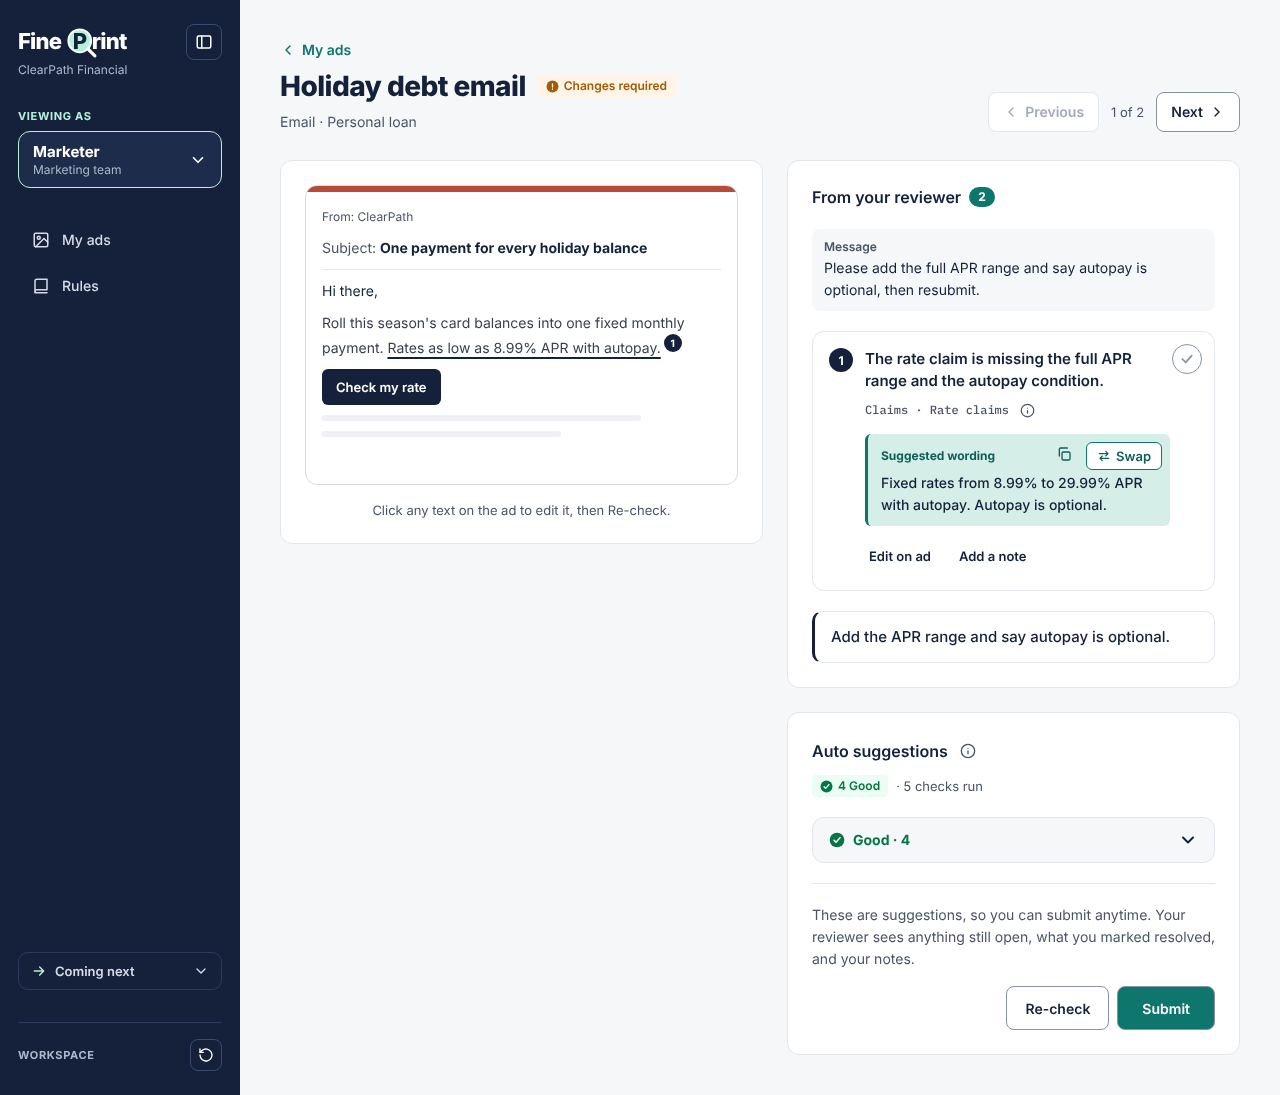
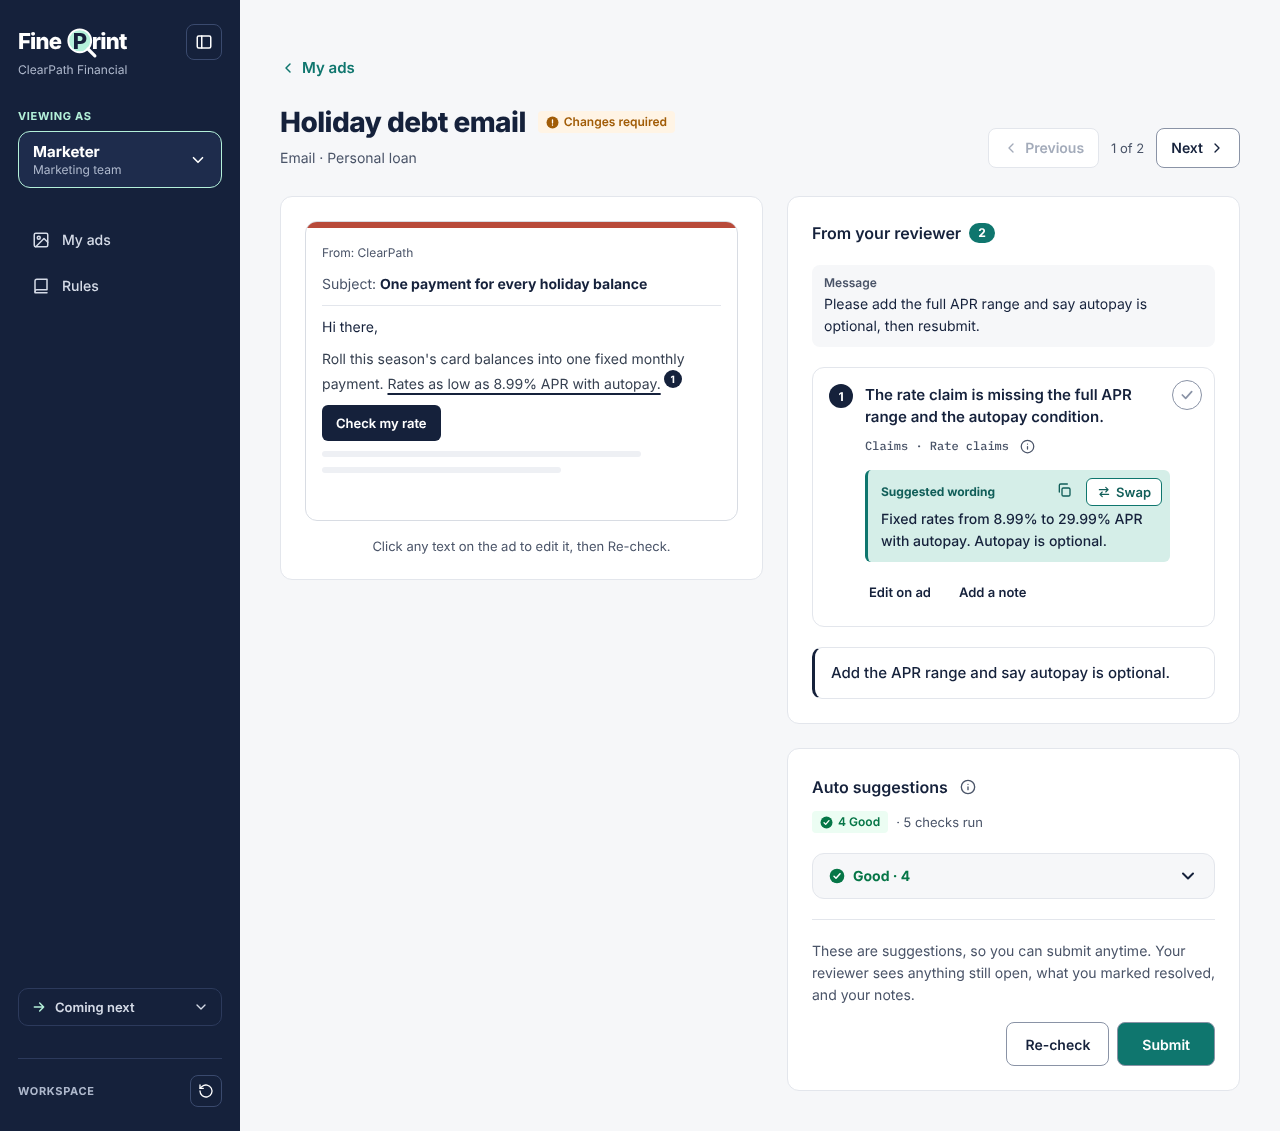
Turso through a local copy on Vercel, Pre-check in the README, no sub-lines, Thinking state on Re-check
- On Vercel with DATABASE_URL set, each function copy reads a local copy of Turso, synced at most
  once a second; writes go to Turso, so every copy shows the same numbers. Falls back to a local
  SQLite file if Turso can't be reached. The lock is released while a live check waits on the model.
- My ads has no sub-lines under the ad name.
- Re-check shows 'Thinking…' above the loading skeleton.
- README: a Pre-check section and Turso deploy steps.

Claude-Session: https://claude.ai/code/session_01GajTyz92bBm6dN9cgoMqN2

diff --git a/src/components/AdTable.tsx b/src/components/AdTable.tsx
@@ -7,8 +7,8 @@ import { useWorkspace } from '../app/workspace'
 import { query } from '../lib/api'
 import { isUpdated } from '../lib/seen'
 import { useApi } from '../lib/useApi'
-import { dayLabel, daysBetween, shortDate, workspaceDate } from '../lib/dates'
-import { PRODUCT_LABEL, STATUS_LABEL, plural, sourceLabel } from '../lib/labels'
+import { dayLabel, daysBetween, shortDate } from '../lib/dates'
+import { PRODUCT_LABEL, STATUS_LABEL, sourceLabel } from '../lib/labels'
 import type { AdList, AdRow, AdStatus, Stat } from '../lib/types'
 import { Icon } from './Icon'
 import { StatCards, type StatAction } from './StatCards'
@@ -53,25 +53,6 @@ export interface Filters {
 }
 
 export const NO_FILTERS: Filters = { format: [], product: [], status: [], due: [] }
-
-/** A line under the name only when it adds something the Status and date columns don't. */
-function myAdsSubLine(row: AdRow, today: string): string | null {
-  switch (row.status) {
-    case 'draft': {
-      const parts = [row.critical && `${row.critical} Critical`, row.caution && `${row.caution} Caution`].filter(Boolean)
-      return parts.length ? `Pre-check: ${parts.join(', ')}` : 'Pre-check: good standing'
-    }
-    case 'changes_required':
-    case 'pending':
-      return null
-    case 'approved_with_changes':
-      return `${plural(row.sent, 'small edit')}, no second review`
-    case 'approved':
-      return row.live_since ? `Live since ${shortDate(workspaceDate(row.live_since), today)}` : 'Ready to go live'
-    case 'rejected':
-      return row.decision_message ?? 'Rejected'
-  }
-}
 
 /** A due date: Today, Tomorrow, or a day; a past one is in the "needs action" color, not alarm red. */
 function DueDate({ day, today }: { day: string; today: string }) {
@@ -366,9 +347,9 @@ export function AdTable({
                 </span>
               )}
             </span>
-            {(view === 'my-ads' ? myAdsSubLine(row, today) : sourceLabel(row.source)) && (
+            {sourceLabel(row.source) && (
               <span style={{ fontSize: 13, lineHeight: '18px', color: '#4A5468' }}>
-                {view === 'my-ads' ? myAdsSubLine(row, today) : sourceLabel(row.source)}
+                {sourceLabel(row.source)}
               </span>
             )}
           </span>

diff --git a/src/pages/PreCheckPage.tsx b/src/pages/PreCheckPage.tsx
@@ -1,4 +1,4 @@
-import { Alert, App as AntApp, Button, Input, Skeleton, Tooltip } from 'antd'
+import { Alert, App as AntApp, Button, Input, Skeleton, Spin, Tooltip } from 'antd'
 import { useEffect, useMemo, useRef, useState, type ReactNode } from 'react'
 import { Link, useNavigate, useParams } from 'react-router-dom'
 import { AdView, isImageTemplate } from '../ads/AdView'
@@ -589,7 +589,13 @@ function PreCheckScreen({ detail, reload }: { detail: AdDetail; reload: () => vo
             </div>
             {unavailable && <Alert type="warning" showIcon message={UNAVAILABLE} />}
             {checking ? (
-              <Skeleton active paragraph={{ rows: 6 }} />
+              <div role="status" style={{ display: 'flex', flexDirection: 'column', gap: 12 }}>
+                <span style={{ display: 'inline-flex', alignItems: 'center', gap: 8, fontSize: 14, lineHeight: '20px', fontWeight: 600, color: '#115E59' }}>
+                  <Spin size="small" />
+                  Thinking… this can take up to 30 seconds.
+                </span>
+                <Skeleton active paragraph={{ rows: 6 }} />
+              </div>
             ) : (
               <>
                 {critical.length > 0 && (
@@ -625,7 +631,7 @@ function PreCheckScreen({ detail, reload }: { detail: AdDetail; reload: () => vo
                 </p>
                 <div style={{ display: 'flex', flexWrap: 'wrap', justifyContent: 'flex-end', gap: 8 }}>
                   <Button className="fp-footer-button" onClick={recheck} loading={checking} disabled={submitting}>
-                    {checking ? 'Checking…' : 'Re-check'}
+                    {checking ? 'Thinking…' : 'Re-check'}
                   </Button>
                   <Button type="primary" className="fp-footer-button fp-footer-primary" onClick={submit} loading={submitting} disabled={checking}>
                     Submit

diff --git a/e2e/tables.spec.ts b/e2e/tables.spec.ts
@@ -31,7 +31,8 @@ test('my ads: stats agree with the rows', async ({ page }) => {
   await expect(stat(page, 'in_review')).toHaveText('3')
   await expect(page.locator('.fp-ad-link')).toHaveCount(8)
   await expect(page.getByRole('link', { name: /^Pre-check / })).toHaveCount(2)
-  await expect(page.getByText('Pre-check: 1 Critical, 1 Caution')).toBeVisible()
+  // No sub-lines under internal ads: Status and the dates say it.
+  await expect(page.getByText('Pre-check: 1 Critical, 1 Caution')).toHaveCount(0)
   await page.screenshot({ path: 'screenshots/m3-my-ads.png', fullPage: true })
 })
 

diff --git a/server/db.py b/server/db.py
@@ -5,6 +5,8 @@ from __future__ import annotations
 import json
 import os
 import re
+import threading
+import time
 from contextlib import contextmanager
 from pathlib import Path
 from typing import Any, Iterator
@@ -14,16 +16,71 @@ import libsql
 MIGRATIONS = Path(__file__).parent / "migrations"
 
 
-def database_url() -> str:
-    # On Vercel, a SQLite file in the function's /tmp, seeded on first use: every query runs in-process.
-    # (A remote database made each query a slow network call.) Data lasts while the function stays warm.
+def default_url() -> str:
+    explicit = os.environ.get("DATABASE_URL")
+    if explicit:
+        return explicit
+    # On Vercel with no shared database: a SQLite file in the function's /tmp, seeded on first use.
+    # Each running copy of the function then has its own data.
     if os.environ.get("VERCEL"):
         return "file:/tmp/fine-print.db"
-    return os.environ.get("DATABASE_URL") or "file:./local.db"
+    return "file:./local.db"
+
+
+def is_remote(url: str | None) -> bool:
+    return bool(url) and not url.startswith("file:") and url != ":memory:"
+
+
+REPLICA_PATH = "/tmp/fine-print-replica.db"
+# Pull other copies' writes at most this often; a page's burst of requests shares one sync.
+SYNC_EVERY_SECONDS = 1.0
+
+
+class Replica:
+    """
+    A local copy of the remote database, for Vercel. Reads run on the local file, writes go to
+    the remote database, and sync() pulls in what other running copies wrote. One connection per
+    process, used one request at a time.
+    """
+
+    def __init__(self, url: str):
+        self.conn = libsql.connect(REPLICA_PATH, sync_url=url, auth_token=os.environ.get("DATABASE_AUTH_TOKEN", ""),
+                                   _check_same_thread=False)
+        self.lock = threading.Lock()
+        self.last_sync = 0.0
+        self.sync(force=True)
+
+    @contextmanager
+    def released(self) -> Iterator[None]:
+        """Let other requests use the copy during a slow outside call, such as the model."""
+        self.conn.commit()
+        self.lock.release()
+        try:
+            yield
+        finally:
+            self.lock.acquire()
+            self.sync(force=True)
+
+    def sync(self, force: bool = False) -> None:
+        if force or time.monotonic() - self.last_sync >= SYNC_EVERY_SECONDS:
+            self.conn.sync()
+            self.last_sync = time.monotonic()
+
+
+_replica: Replica | None = None
+_replica_lock = threading.Lock()
+
+
+def replica(url: str) -> Replica:
+    global _replica
+    with _replica_lock:
+        if _replica is None:
+            _replica = Replica(url)
+    return _replica
 
 
 def connect(url: str | None = None) -> Any:
-    url = url or database_url()
+    url = url or default_url()
     if url == ":memory:":
         return libsql.connect(":memory:")
     if url.startswith("file:"):
@@ -34,8 +91,18 @@ def connect(url: str | None = None) -> Any:
 class Db:
     """A thin wrapper that returns rows as dicts."""
 
-    def __init__(self, conn: Any):
+    def __init__(self, conn: Any, replica: "Replica | None" = None):
         self.conn = conn
+        self.replica = replica
+
+    @contextmanager
+    def released(self) -> Iterator[None]:
+        """Around a slow outside call: on a shared local copy, frees it for other requests meanwhile."""
+        if self.replica is None:
+            yield
+        else:
+            with self.replica.released():
+                yield
 
     def all(self, sql: str, params: tuple | list = ()) -> list[dict]:
         cur = self.conn.execute(sql, tuple(params))

diff --git a/server/app.py b/server/app.py
@@ -10,7 +10,7 @@ from flask import Flask, g, jsonify, request
 
 from . import access, actions, checker, repo
 from .dates import iso, local_date, utcnow
-from .db import Db, connect, migrate
+from .db import Db, connect, default_url, is_remote, migrate, replica
 from .seed import ensure_seeded, seed
 
 
@@ -19,7 +19,7 @@ def create_app(database_url: str | None = None, clock: Callable = utcnow) -> Fla
     app.config["DATABASE_URL"] = database_url
     app.config["CLOCK"] = clock
     access.install(app)
-    state: dict[str, Any] = {"migrated": False, "memory": None}
+    state: dict[str, Any] = {"migrated": False, "memory": None, "local_fallback": False}
     setup_lock = threading.Lock()
 
     def get_db() -> Db:
@@ -30,8 +30,23 @@ def create_app(database_url: str | None = None, clock: Callable = utcnow) -> Fla
                 if state["memory"] is None:
                     state["memory"] = Db(connect(":memory:"))
                 g.db = state["memory"]
+            elif is_remote(url or default_url()) and not state["local_fallback"]:
+                # A shared remote database, read through a local copy: one sync per request burst.
+                try:
+                    copy = replica(url or default_url())
+                except Exception:
+                    app.logger.exception("Could not open the local copy; using a local database instead")
+                    state["local_fallback"] = True
+                    return get_db()
+                copy.lock.acquire()
+                g.replica = copy
+                try:
+                    copy.sync()
+                except Exception:
+                    app.logger.exception("Sync failed; serving the last synced copy")
+                g.db = Db(copy.conn, copy)
             else:
-                g.db = Db(connect(url))
+                g.db = Db(connect("file:/tmp/fine-print.db" if state["local_fallback"] else url))
             # The first requests arrive together; one at a time migrates and seeds.
             with setup_lock:
                 if not state["migrated"]:
@@ -48,6 +63,13 @@ def create_app(database_url: str | None = None, clock: Callable = utcnow) -> Fla
     @app.teardown_appcontext
     def close_db(_exc: BaseException | None) -> None:
         db = g.pop("db", None)
+        copy = g.pop("replica", None)
+        if copy is not None:
+            # The connection is shared: leave it clean for the next request.
+            if copy.conn.in_transaction:
+                copy.conn.rollback()
+            copy.lock.release()
+            return
         if db is not None and db is not state["memory"]:
             db.conn.close() if hasattr(db.conn, "close") else None
 

diff --git a/tests/server/test_replica.py b/tests/server/test_replica.py
@@ -1,0 +1,38 @@
+import time
+
+from server import app as app_module
+from server import db as db_module
+from server.app import create_app
+
+
+def test_an_unreachable_shared_database_falls_back_to_a_local_one(tmp_path, monkeypatch):
+    # The site never goes down because the shared database can't be reached.
+    monkeypatch.setattr(db_module, "REPLICA_PATH", str(tmp_path / "replica.db"))
+    monkeypatch.setattr(db_module, "_replica", None)
+    local = tmp_path / "local.db"
+    real_connect = app_module.connect
+    monkeypatch.setattr(app_module, "connect", lambda url=None: real_connect(f"file:{local}") if url == "file:/tmp/fine-print.db" else real_connect(url))
+    app = create_app("libsql://127.0.0.1:9")
+    started = time.monotonic()
+    res = app.test_client().get("/api/ads?view=queue")
+    assert res.status_code == 200
+    assert res.get_json()["total"] == 9
+    assert time.monotonic() - started < 15
+
+
+def test_the_local_copy_syncs_at_most_once_a_second(monkeypatch):
+    calls = []
+
+    class Conn:
+        def sync(self):
+            calls.append(1)
+
+    copy = db_module.Replica.__new__(db_module.Replica)
+    copy.conn, copy.last_sync = Conn(), 0.0
+    copy.sync(force=True)
+    copy.sync()
+    copy.sync()
+    assert len(calls) == 1
+    copy.last_sync -= 2
+    copy.sync()
+    assert len(calls) == 2

diff --git a/server/checker.py b/server/checker.py
@@ -230,7 +230,8 @@ def run_check(db: Db, version_id: int, now: datetime, context: str = "re-check",
         log.warning("Live check limit reached for version %s", version_id)
         return {"status": "unavailable"}
     try:
-        data = call_model(client or make_client(), build_request(ad, rules, layers, model_name()))
+        with db.released():
+            data = call_model(client or make_client(), build_request(ad, rules, layers, model_name()))
         findings, passed = validate(data, rules, layers)
     except Exception as error:  # noqa: BLE001 - any failure means "unavailable", never a blocked user
         log.warning("Auto check failed for version %s: %s", version_id, error)

diff --git a/README.md b/README.md
@@ -17,10 +17,10 @@ Every ad arrives with its suggestions pinned on the words, grouped by severity. 
 
 ![Prepared review](docs/gifs/01-review.gif)
 
-### 2. Fix it in one click
-The marketer sees what the reviewer kept, at the top. **Swap** puts in the suggested wording, or a readable size, and marks it resolved.
+### 2. Pre-check before submitting
+Marketers run the same auto check on their own ad before a reviewer sees it. Each suggestion is pinned on the words, with the wording to use instead. **Swap** puts it in (or a readable size) and marks it resolved. Click any text on the ad to edit it, then **Re-check**. Suggestions never block Submit. When an ad comes back, what the reviewer kept sits at the top.
 
-![Fix in one click](docs/gifs/02-pre-check.gif)
+![Pre-check](docs/gifs/02-pre-check.gif)
 
 ### 3. Only what changed
 A resubmission shows the old version above the new one, with what got fixed in green.
@@ -78,14 +78,17 @@ Checks: `npm run lint`, `npm run build`, `npm test` (unit and server), `npm run 
    | Variable | Value |
    | --- | --- |
    | `ACCESS_KEY` | Any long random value. The site then only opens from `https://<your-app>/?key=<ACCESS_KEY>`. |
+   | `DATABASE_URL` | Your Turso database URL (`libsql://…`) |
+   | `DATABASE_AUTH_TOKEN` | A Turso token for it |
    | `ANTHROPIC_API_KEY` | For live checks (optional) |
 
-3. Open the link. The sample data builds itself in under a second.
+3. Set the function region to your Turso database's region (Settings → Functions).
+4. Open the link. The sample data builds itself on first visit.
 
-The database is SQLite inside the function, so every query is instant. It starts fresh when Vercel restarts the function, the same as **Reset sample data**.
+Each running copy of the function reads from a local copy of the Turso database and syncs it at most once a second, so pages stay fast and every copy shows the same data. Writes go to Turso. Without `DATABASE_URL`, each copy uses its own SQLite file, which is fast but not shared between copies.
 
 Optional: `ANTHROPIC_MODEL` (default `claude-sonnet-5-5`), and `LIVE_CHECKS_PER_MINUTE` / `LIVE_CHECKS_PER_DAY` (default 10 per visitor, 200 total) to cap API spend.
 
 ## Stack
 
-React, TypeScript, Vite and antd on the front end. Flask, libSQL (SQLite, locally and on Vercel; Turso also works) and the Anthropic SDK on the server. Vitest, pytest and Playwright for tests.
+React, TypeScript, Vite and antd on the front end. Flask, libSQL (SQLite locally, Turso with a local copy on Vercel) and the Anthropic SDK on the server. Vitest, pytest and Playwright for tests.

diff --git a/BLOCKED.md b/BLOCKED.md
@@ -57,4 +57,4 @@ The data model's `applies_to` allows products and/or "affiliate", but the 10-Add
 - **Review layout follows Pre-check** (owner's call): the ad (or v1/v2) stays in view on the left; on the right, Your findings comes first, like "From your reviewer" for the marketer, then the auto suggestions. The finding box opens from an "Add a finding" button instead of always showing (the wireframe has it under the ad, always open).
 - **The Queue sorts by Updated** (owner's call), most recent first, and Review's Previous / "n of 9" / Next follows that order. The 04 wireframe lists the Queue by due date (Fall personal loan "3 of 9"); Due is still a sortable column. Toasts carry no deadlines, and a past due date shows in the "needs action" orange rather than red.
 - **No comment count under sent-back ads** (owner's call): My ads shows no line under sent-back or pending ads (the Status column and the Updated tag say it); the count miscounted when the reviewer wrote only a message.
-- **No remote database on Vercel.** Turso made every query a slow network call (pages timed out and filters failed), so on Vercel the app uses SQLite in the function's `/tmp`, seeded in under a second on a cold start. Data and votes last while the function is warm and start fresh after a restart, like Reset. Locally it's still `local.db`; `DATABASE_URL` still works off Vercel.
+- **Turso through a local copy on Vercel.** A direct Turso connection made every query a network call (pages timed out). SQLite in `/tmp` was fast, but each running copy of the function had its own data, so counts disagreed between requests. Now each copy reads from a local copy of Turso, synced at most once a second, and writes go to Turso. If Turso can't be reached, the copy falls back to its own SQLite file so the site stays up. The lock on the shared connection is released while a live check waits on the model.
